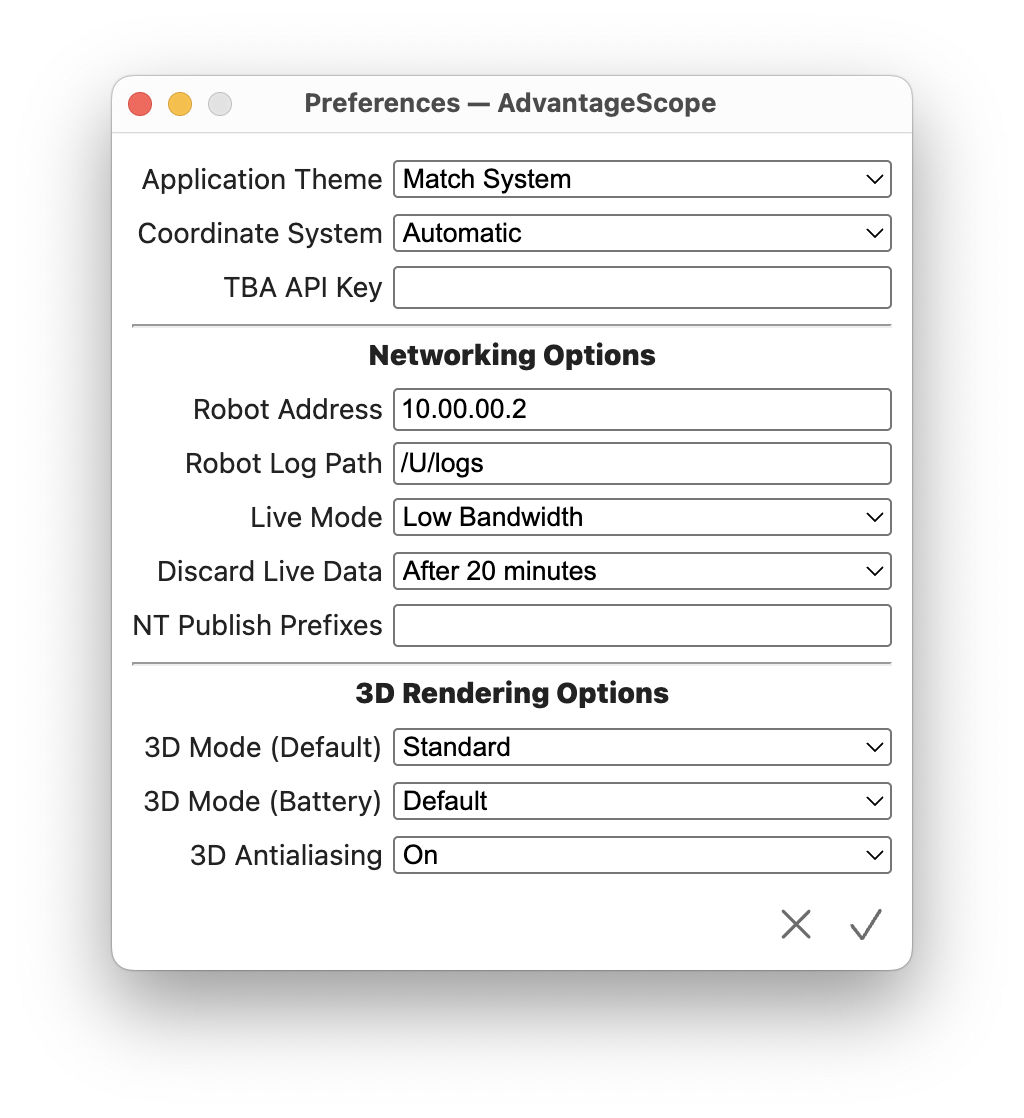
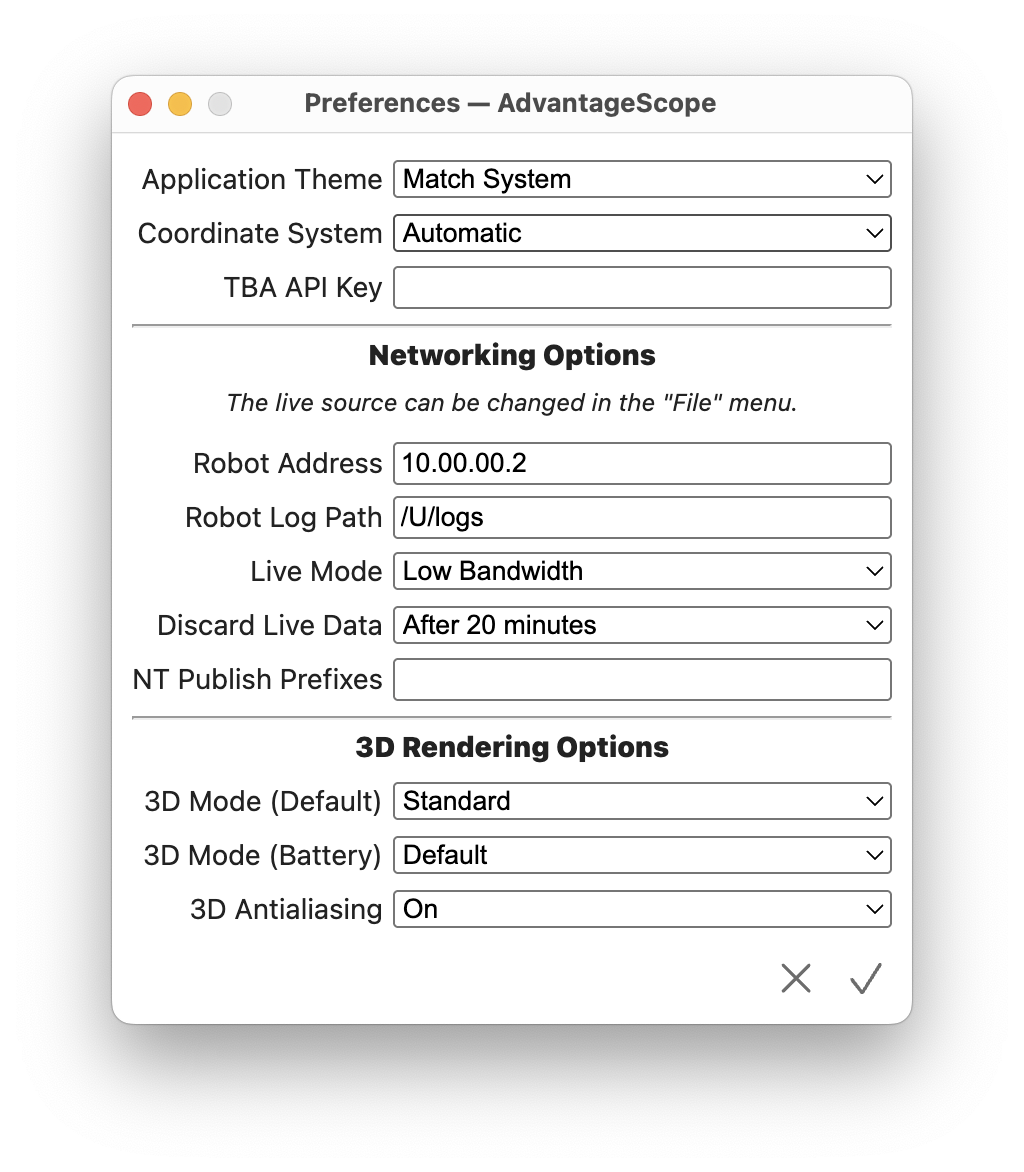
Add warning to preferences window about live source configuration

Changed region(s): [[0.0938, 0.0608, 0.9062, 0.8819], [0.125, 0.0608, 0.25, 0.1216]]

diff --git a/src/main/lite/main.ts b/src/main/lite/main.ts
@@ -167,7 +167,7 @@ function openSourceListHelp(config: SourceListConfig) {
 /** Opens a popup window for preferences. */
 function openPreferences() {
   const width = 400;
-  const optionRows = 6;
+  const optionRows = 7;
   const titleRows = 2;
   const height = optionRows * 27 + titleRows * 34 + 54;
   openPopupWindow("www/preferences.html", [width, height], "pixels", (message) => {

diff --git a/www/preferences.html b/www/preferences.html
@@ -57,6 +57,9 @@
             Networking Options
           </td>
         </tr>
+        <tr>
+          <td class="subtitle" colspan="2">The live source can be changed in the "File" menu.</td>
+        </tr>
         <tr class="hide-lite">
           <td class="label">Robot Address</td>
           <td class="input" tabindex="-1">

diff --git a/www/prompts.css b/www/prompts.css
@@ -51,6 +51,16 @@ td.title > hr {
   margin-bottom: 0px;
 }
 
+td.subtitle {
+  white-space: nowrap;
+  text-align: center;
+  font-size: 12px;
+  font-style: italic;
+  height: 20px;
+  line-height: 20px;
+  padding-bottom: 7px;
+}
+
 td.label {
   white-space: nowrap;
   width: 0px;

diff --git a/src/main/electron/main.ts b/src/main/electron/main.ts
@@ -2955,7 +2955,7 @@ function openPreferences(parentWindow: Electron.BrowserWindow) {
   }
 
   const width = 400;
-  const optionRows = 11;
+  const optionRows = 12;
   const titleRows = 2;
   const height = optionRows * 27 + titleRows * 34 + 54;
   prefsWindow = new BrowserWindow({
